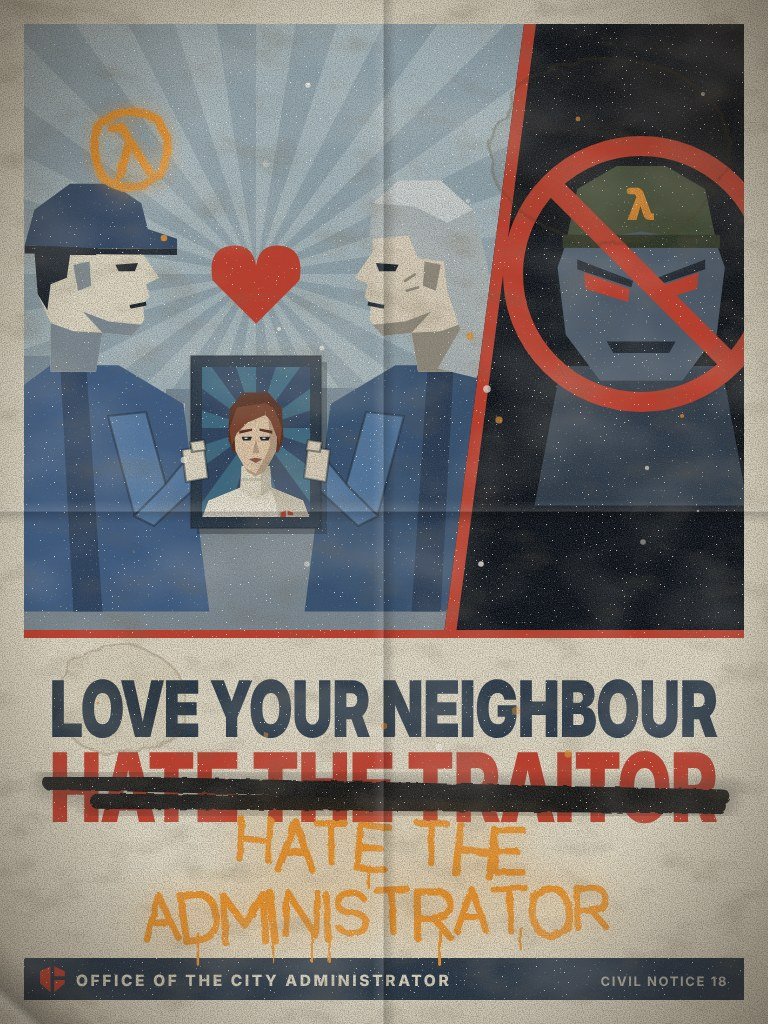
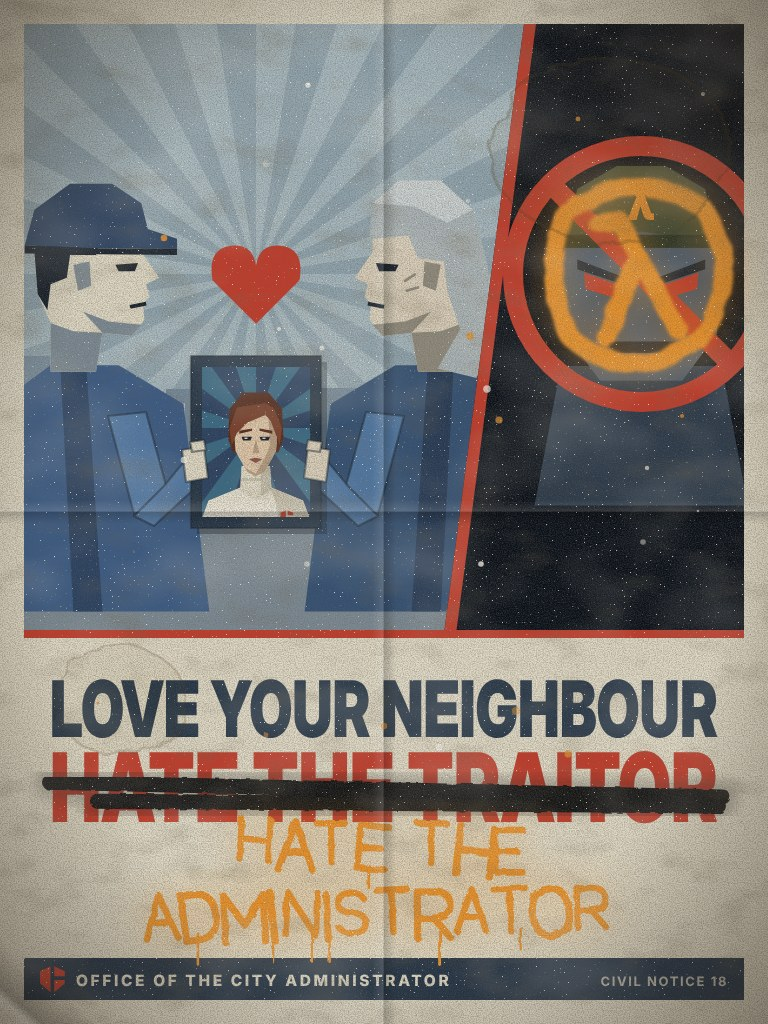
Slogan poster, painted over: the lambda sprayed over the crossed-out rebel
Claude-Session: https://claude.ai/code/session_01Y8SXQorFoe55U3GQd1K7aN

Changed region(s): [[0.6875, 0.1562, 0.9688, 0.375], [0.0938, 0.0938, 0.25, 0.1875]]

diff --git a/_dev/posters/art3.js b/_dev/posters/art3.js
@@ -96,7 +96,7 @@ const DEFACE = {
   housing: { strike: [1], words: [['IS A', 384, 300, 120, -7, WHITE], ['CELL', 384, 450, 170, -7, ORANGE]], lam: [130, 540, 1.0, -8] },
   vortigaunt: { words: [['FREE', 384, 280, 150, -9, WHITE], ['THEM', 384, 430, 150, -9, ORANGE]], lam: [130, 130, 0.9, 8] },
   recruit: { words: [['TRAITORS', 384, 360, 132, -8, WHITE]], lam: [130, 150, 0.9, -8] },
-  neighbour: { strike: [1], words: [['HATE THE', 384, 878, 60, -3, ORANGE, { tm: 3, run: 0.3 }], ['ADMINISTRATOR', 384, 944, 60, -3, ORANGE, { tm: 3, run: 0.3 }]], lam: [130, 150, 0.9, -8] },
+  neighbour: { strike: [1], words: [['HATE THE', 384, 878, 60, -3, ORANGE, { tm: 3, run: 0.3 }], ['ADMINISTRATOR', 384, 944, 60, -3, ORANGE, { tm: 3, run: 0.3 }]], lam: [636, 276, 2.1, -4] },
   administrator: { words: [['LIAR', 384, 500, 210, -8, WHITE]], lam: [660, 130, 0.9, 8],
     extra: `<g filter="url(#spray)" stroke="${BLACK}" stroke-width="15" stroke-linecap="round" fill="none"><path d="M296,218 L374,282 M378,226 L302,274 M394,224 L470,280 M466,216 L398,284"/></g>` },
 };
